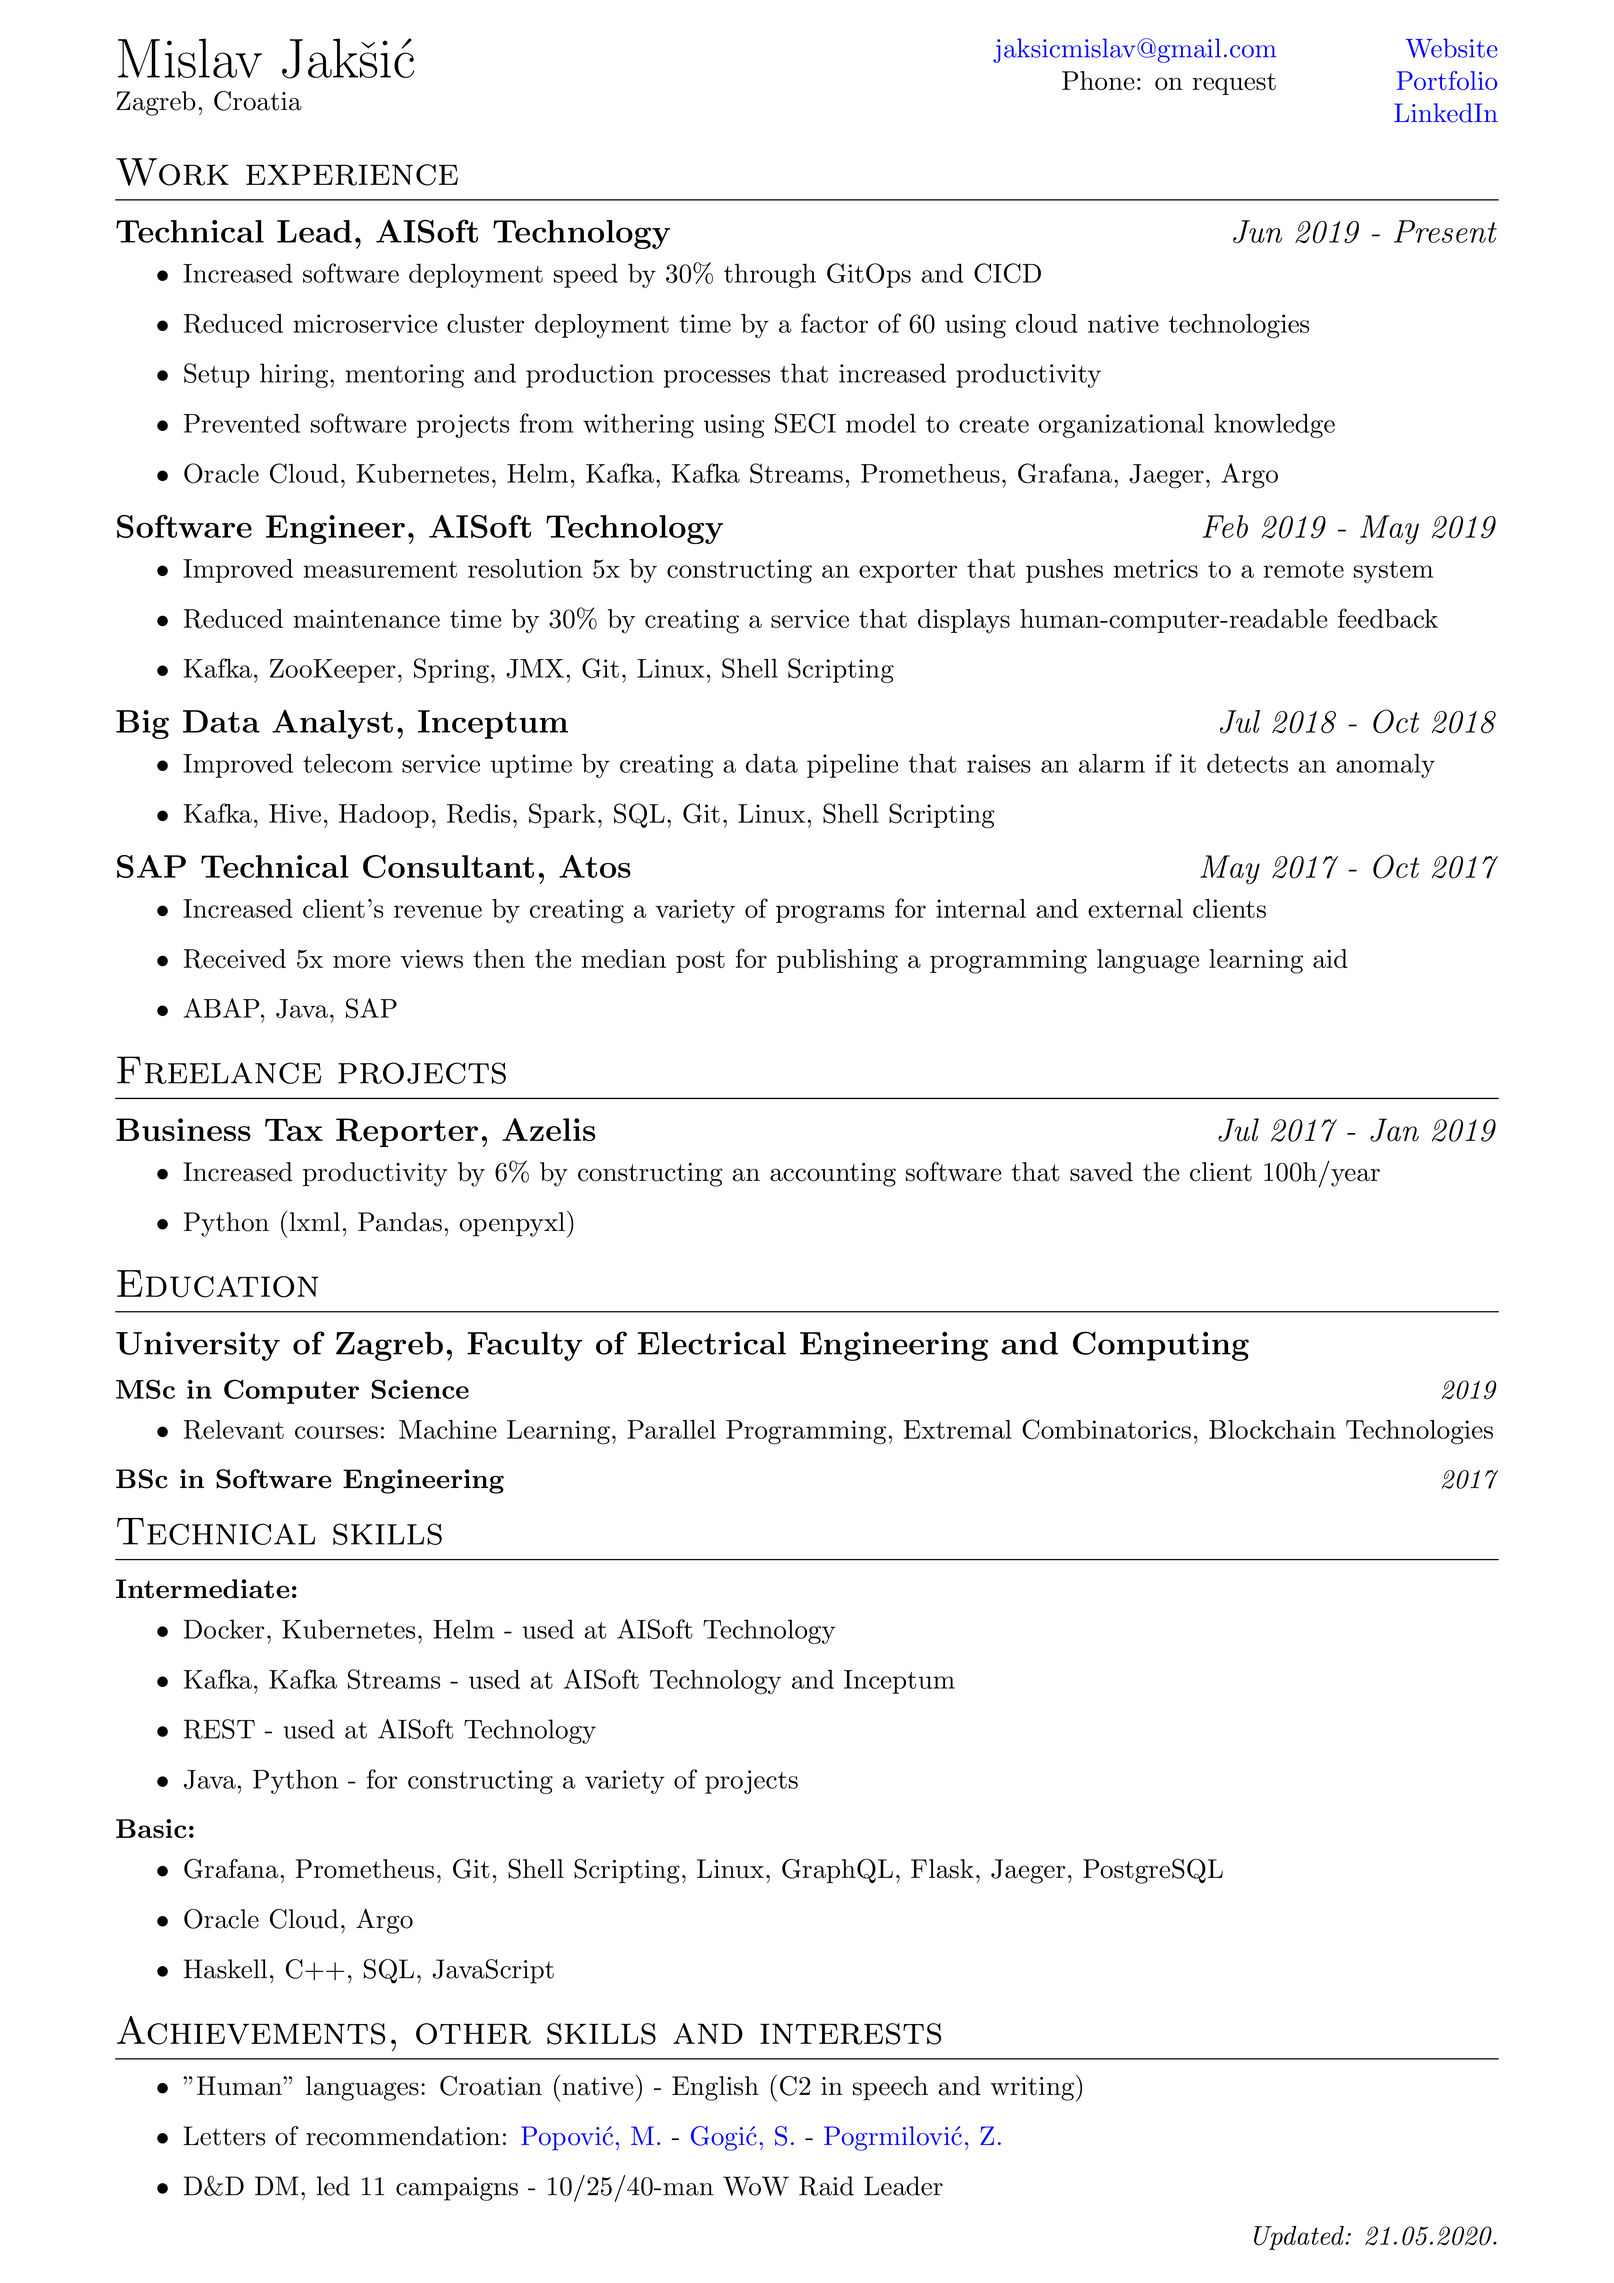
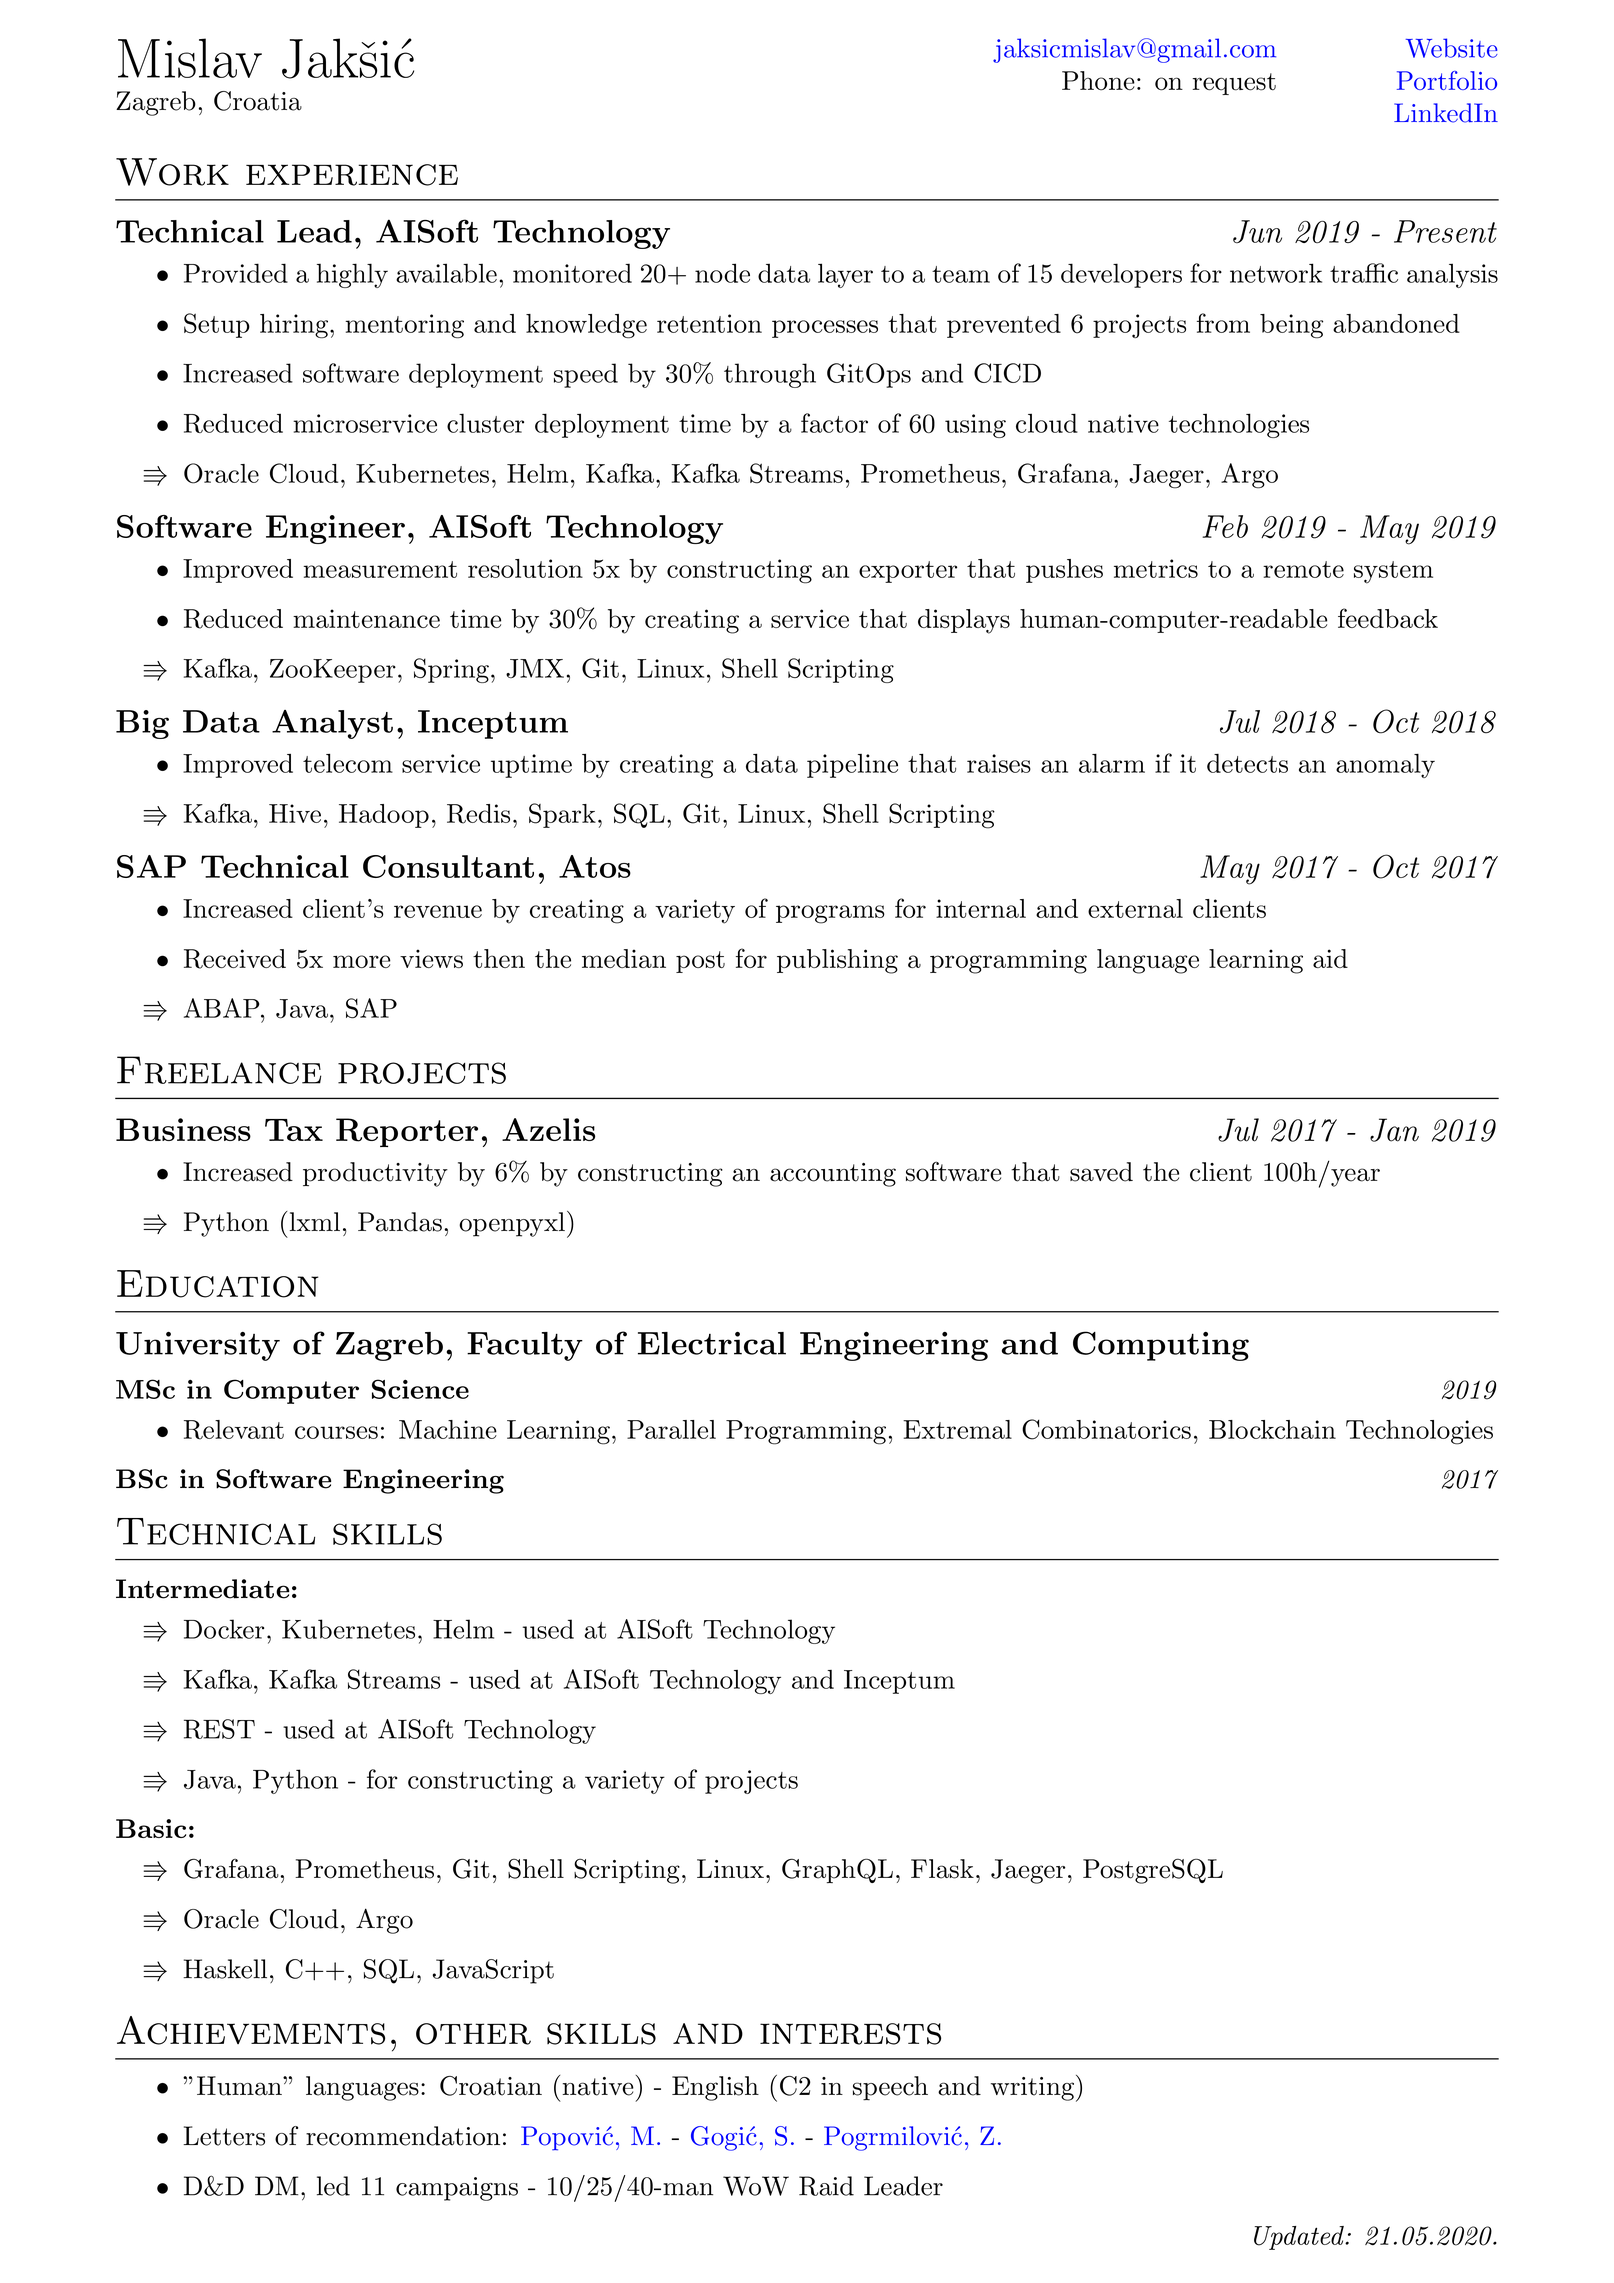
Rephrased achievements

diff --git a/CV.tex b/CV.tex
@@ -2,6 +2,8 @@
 
 \usepackage[utf8]{inputenc}
 
+\usepackage{amssymb}
+
 %\usepackage[T1]{fontenc}
 %\usepackage{helvet}
 
@@ -119,11 +121,11 @@ Phone: on request
 \subsection{\bolditalicpair{Technical Lead, AISoft Technology}{Jun 2019 - Present}}
 
 \begin{itemize}
-  \item Reduced software project development time by 70\% through containerization and cloud deployment
-  \item Increased deployment speed by 30\% through GitOps and CICD
-  \item Reduced microservice cluster deployment time by a factor of 60 using cloud native technologies
-  \item Setup hiring, mentoring, production and knowledge retention processes that increased productivity
-  \item Oracle Cloud, Kubernetes, Helm, Kafka, Kafka Streams, Prometheus, Grafana, Jaeger, Argo
+ \item Provided a highly available, monitored 20+ node data layer to a team of 15 developers for network traffic analysis
+ \item Setup hiring, mentoring and knowledge retention processes that prevented 6 projects from being abandoned
+ \item Increased software deployment speed by 30\% through GitOps and CICD
+ \item Reduced microservice cluster deployment time by a factor of 60 using cloud native technologies
+ \item[$\Rrightarrow$] Oracle Cloud, Kubernetes, Helm, Kafka, Kafka Streams, Prometheus, Grafana, Jaeger, Argo
 \end{itemize}
 
 \subsection{\bolditalicpair{Software Engineer, AISoft Technology}{Feb 2019 - May 2019}}
@@ -131,14 +133,14 @@ Phone: on request
 \begin{itemize}
   \item Improved measurement resolution 5x by constructing an exporter that pushes metrics to a remote system
   \item Reduced maintenance time by 30\% by creating a service that displays human-computer-readable feedback
-  \item Kafka, ZooKeeper, Spring, JMX, Git, Linux, Shell Scripting
+  \item[$\Rrightarrow$] Kafka, ZooKeeper, Spring, JMX, Git, Linux, Shell Scripting
 \end{itemize}
 
 \subsection{\bolditalicpair{Big Data Analyst, Inceptum}{Jul 2018 - Oct 2018}}
 
 \begin{itemize}
   \item Improved telecom service uptime by creating a data pipeline that raises an alarm if it detects an anomaly
-  \item Kafka, Hive, Hadoop, Redis, Spark, SQL, Git, Linux, Shell Scripting
+  \item[$\Rrightarrow$] Kafka, Hive, Hadoop, Redis, Spark, SQL, Git, Linux, Shell Scripting
 \end{itemize}
 
 \subsection{\bolditalicpair{SAP Technical Consultant, Atos}{May 2017 - Oct 2017}}
@@ -146,7 +148,7 @@ Phone: on request
 \begin{itemize}
   \item Increased client's revenue by creating a variety of programs for internal and external clients
   \item Received 5x more views then the median post for publishing a programming language learning aid
-  \item ABAP, Java, SAP
+  \item[$\Rrightarrow$] ABAP, Java, SAP
 \end{itemize}
 
 
@@ -156,7 +158,7 @@ Phone: on request
 
 \begin{itemize}
   \item Increased productivity by 6\% by constructing an accounting software that saved the client 100h/year
-  \item Python (lxml, Pandas, openpyxl)
+  \item[$\Rrightarrow$] Python (lxml, Pandas, openpyxl)
 \end{itemize}
 
 % \subsection{\bolditalicpair{Real estate valuation system}{Capstone project}}
@@ -185,18 +187,18 @@ Phone: on request
 \subsubsection{\bolditalicpair{Intermediate:}{}}
 
 \begin{itemize}
-  \item Docker, Kubernetes, Helm - used at AISoft Technology
-  \item Kafka, Kafka Streams - used at AISoft Technology and Inceptum
-  \item REST - used at AISoft Technology
-  \item Java, Python - for constructing a variety of projects
+  \item[$\Rrightarrow$] Docker, Kubernetes, Helm - used at AISoft Technology
+  \item[$\Rrightarrow$] Kafka, Kafka Streams - used at AISoft Technology and Inceptum
+  \item[$\Rrightarrow$] REST - used at AISoft Technology
+  \item[$\Rrightarrow$] Java, Python - for constructing a variety of projects
 \end{itemize}
 
 \subsubsection{\bolditalicpair{Basic:}{}}
 
 \begin{itemize}
-  \item Grafana, Prometheus, Git, Shell Scripting, Linux, GraphQL, Flask, Jaeger, PostgreSQL
-  \item Oracle Cloud, Argo
-  \item Haskell, C++, SQL, JavaScript
+  \item[$\Rrightarrow$] Grafana, Prometheus, Git, Shell Scripting, Linux, GraphQL, Flask, Jaeger, PostgreSQL
+  \item[$\Rrightarrow$] Oracle Cloud, Argo
+  \item[$\Rrightarrow$] Haskell, C++, SQL, JavaScript
 \end{itemize}
 
 
